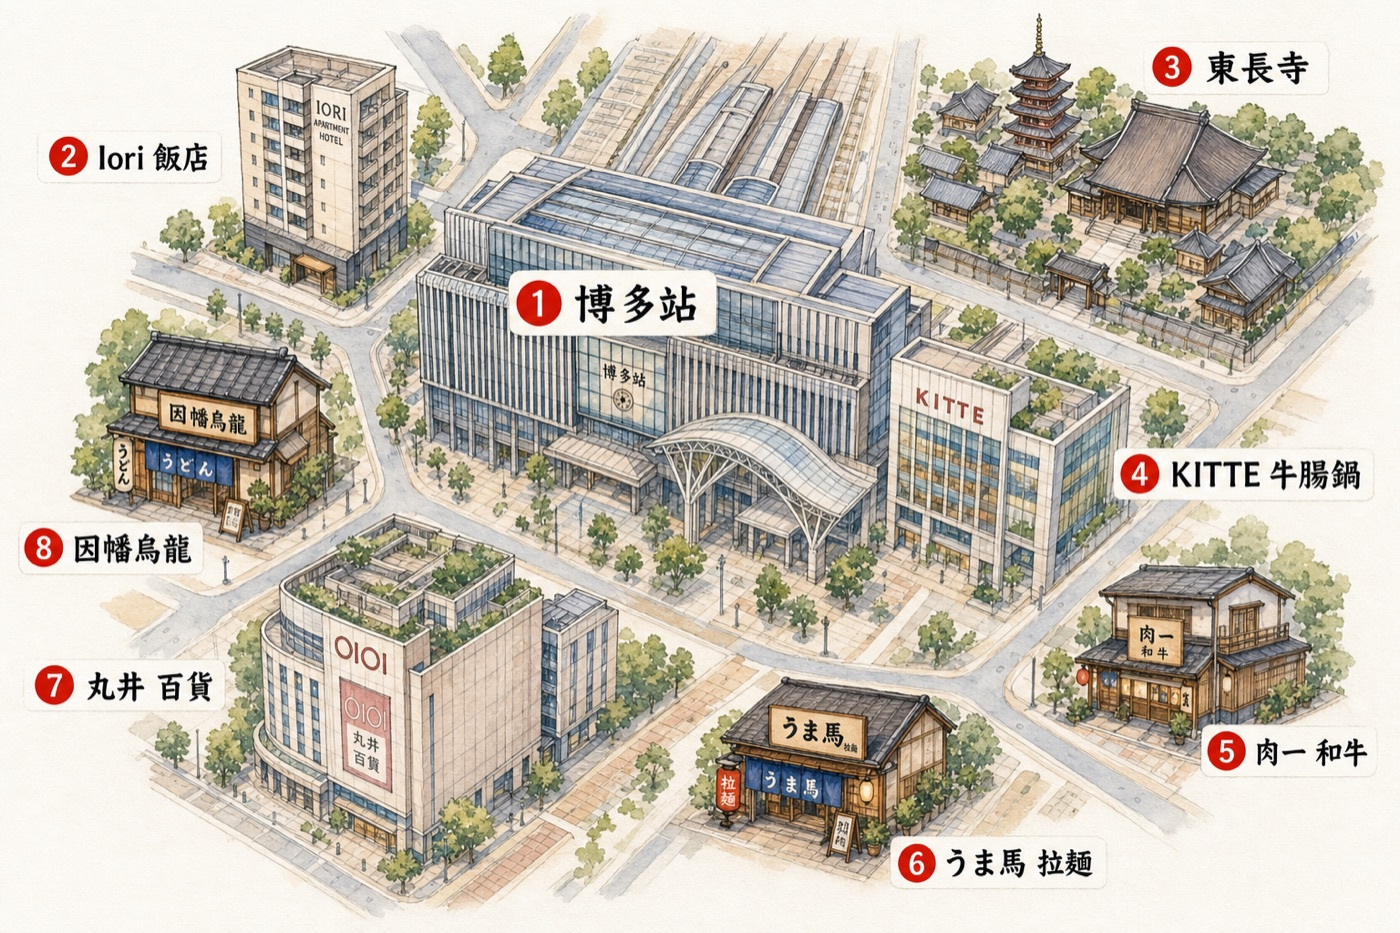
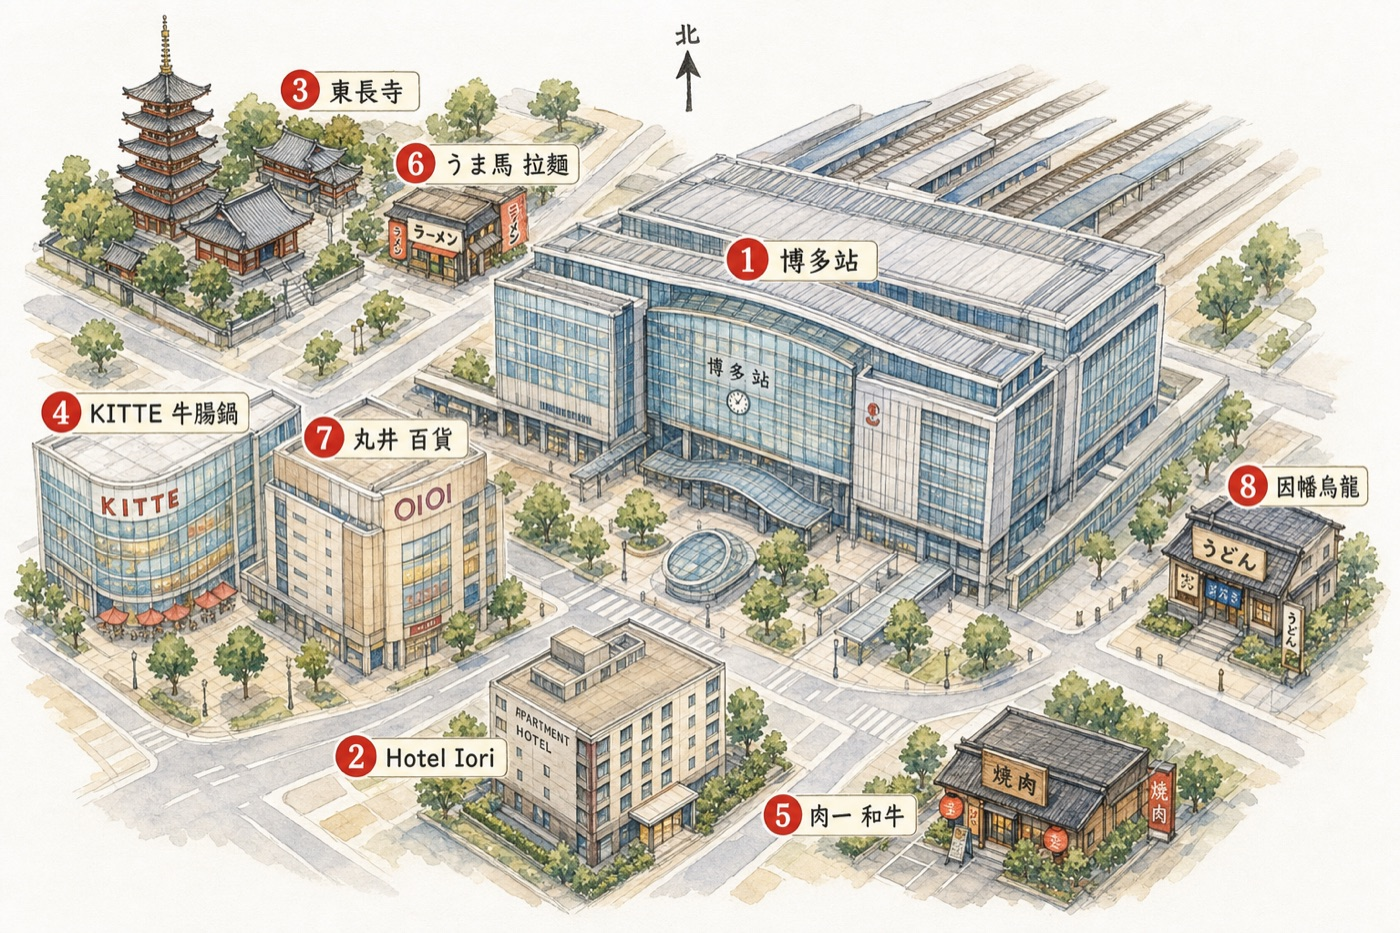
v13.13: 地理位置修正(codex查證) + 行程總覽大圖
- codex 官方地圖交叉驗證七區相對位置;重生博多站(Iori移到南邊、方位加指北針)、大濠(補大濠公園站、方位修正、魚男地址今泉)
- 新增六天五夜行程總覽插畫大圖,置於行程頁速覽下方
- 五區方位偏差(糸島/天神/中洲/門司港)待確認是否重生

diff --git a/fukuoka/areas.html b/fukuoka/areas.html
@@ -544,7 +544,7 @@ a:focus-visible,summary:focus-visible,button:focus-visible{outline:2px solid var
       <figcaption class="mapcredit">插畫地圖 · AI 生成(gpt-image)· 僅供本行程導覽</figcaption>
     </figure>
     <div class="accessbar"><svg class="ic"><use href="#i-train"/></svg><span><b>怎麼到</b>：博多站 → 地鐵空港線直達約 8 分 → 大濠公園站,一出站即達湖畔</span></div>
-    <p class="story">大濠公園是福岡市中心的一片大湖綠洲,地鐵『大濠公園站』一出就到。這是 Day5 下午『往西』選配路線的核心——想避開人潮、找個平緩好走的地方陪長輩散步,這裡是最舒服的選擇。</p><p class="story">環湖步道全程平路、一圈約 2 公里,湖心三座小島用石橋串連,黃昏時分光影最美;湖畔有<b>星巴克</b>可歇腳看水景。北側是<b>日本庭園</b>(枯山水與池泉)和<b>福岡城跡</b>的石垣遺構(舞鶴公園、春天賞櫻名所);東側的<b>福岡市美術館</b>藏有草間彌生南瓜等當代作品,冷氣開放、也是避暑好去處。</p><p class="story">傍晚散步後,可到附近薬院的<b>魚男 FISHMAN</b>吃設計感海鮮晚餐(走這條就不去うま馬拉麵、兩者二選一)。提醒:這條是 Day5『往東動漫線／往西大濠』的西邊選項,想悠閒往西、想逛動漫往東;長輩腳力有限可只走湖畔一小段、不必繞整圈。</p>
+    <p class="story">大濠公園是福岡市中心的一片大湖綠洲,地鐵『大濠公園站』一出就到。這是 Day5 下午『往西』選配路線的核心——想避開人潮、找個平緩好走的地方陪長輩散步,這裡是最舒服的選擇。</p><p class="story">環湖步道全程平路、一圈約 2 公里,湖心三座小島用石橋串連,黃昏時分光影最美;湖畔有<b>星巴克</b>可歇腳看水景。北側是<b>日本庭園</b>(枯山水與池泉)和<b>福岡城跡</b>的石垣遺構(舞鶴公園、春天賞櫻名所);東側的<b>福岡市美術館</b>藏有草間彌生南瓜等當代作品,冷氣開放、也是避暑好去處。</p><p class="story">傍晚散步後,可到附近今泉的<b>魚男 FISHMAN</b>吃設計感海鮮晚餐(走這條就不去うま馬拉麵、兩者二選一)。提醒:這條是 Day5『往東動漫線／往西大濠』的西邊選項,想悠閒往西、想逛動漫往東;長輩腳力有限可只走湖畔一小段、不必繞整圈。</p>
     
     <div class="rsec" style="margin-top:26px"><h3><svg class="ic"><use href="#i-pin"/></svg>圖上景點 · 點看地圖</h3>
       <ul class="legend">
@@ -559,7 +559,9 @@ a:focus-visible,summary:focus-visible,button:focus-visible{outline:2px solid var
         
         <li class="lg"><span class="no">5</span><div><span class="lgn">湖畔星巴克</span> <a class="mapmini" href="https://www.google.com/maps/search/?api=1&query=%E5%A4%A7%E6%BF%A0%E5%85%AC%E5%9C%92%20%E6%B9%96%E7%95%94%E6%98%9F%E5%B7%B4%E5%85%8B" target="_blank" rel="noopener"><svg class="ic"><use href="#i-pin"/></svg>Maps</a><div class="lgd">看水景歇腳</div></div></li>
         
-        <li class="lg"><span class="no">6</span><div><span class="lgn">魚男海鮮</span> <a class="mapmini" href="https://www.google.com/maps/search/?api=1&query=%E5%A4%A7%E6%BF%A0%E5%85%AC%E5%9C%92%20%E9%AD%9A%E7%94%B7%E6%B5%B7%E9%AE%AE" target="_blank" rel="noopener"><svg class="ic"><use href="#i-pin"/></svg>Maps</a><div class="lgd">薬院、設計感晚餐(Day5 選配)</div></div></li>
+        <li class="lg"><span class="no">6</span><div><span class="lgn">魚男海鮮</span> <a class="mapmini" href="https://www.google.com/maps/search/?api=1&query=%E5%A4%A7%E6%BF%A0%E5%85%AC%E5%9C%92%20%E9%AD%9A%E7%94%B7%E6%B5%B7%E9%AE%AE" target="_blank" rel="noopener"><svg class="ic"><use href="#i-pin"/></svg>Maps</a><div class="lgd">今泉、設計感晚餐(Day5 選配)</div></div></li>
+        
+        <li class="lg"><span class="no">7</span><div><span class="lgn">大濠公園站</span> <a class="mapmini" href="https://www.google.com/maps/search/?api=1&query=%E5%A4%A7%E6%BF%A0%E5%85%AC%E5%9C%92%20%E5%A4%A7%E6%BF%A0%E5%85%AC%E5%9C%92%E7%AB%99" target="_blank" rel="noopener"><svg class="ic"><use href="#i-pin"/></svg>Maps</a><div class="lgd">地鐵空港線、抵達點(北偏東出口)</div></div></li>
         
       </ul>
     </div>

diff --git a/fukuoka/index.html b/fukuoka/index.html
@@ -173,6 +173,9 @@ a:focus-visible,summary:focus-visible,button:focus-visible{outline:2px solid var
 .arealink{display:inline-flex;align-items:center;gap:5px;margin-top:12px;font-family:var(--mono);font-size:12px;font-weight:600;color:var(--plum);text-decoration:none;border:1px solid color-mix(in srgb,var(--plum) 35%,var(--line2));border-radius:20px;padding:5px 12px}
 .arealink:hover{background:color-mix(in srgb,var(--plum) 10%,transparent)}
 .arealink .ic{width:13px;height:13px}
+.overviewmap{padding:6px 0 10px}
+.overviewmap img{width:100%;height:auto;display:block;border-radius:16px;border:1px solid var(--line);box-shadow:var(--shadow)}
+.ovcap{font-family:var(--mono);font-size:10.5px;color:var(--soft);text-align:center;margin-top:8px}
 
 /* Hero */
 .hero{padding:16px 0 4px}
@@ -668,6 +671,13 @@ a:focus-visible,summary:focus-visible,button:focus-visible{outline:2px solid var
     </details>
     
   </section>
+
+  
+  <section class="overviewmap">
+    <img src="img/trip_overview.jpg" alt="福岡六天五夜行程總覽插畫地圖" loading="lazy">
+    <p class="ovcap">六天五夜走過的五大區 · 手繪插畫地圖(AI 生成、僅供本行程)</p>
+  </section>
+  
 
   
   <section class="daysec" id="day1">
